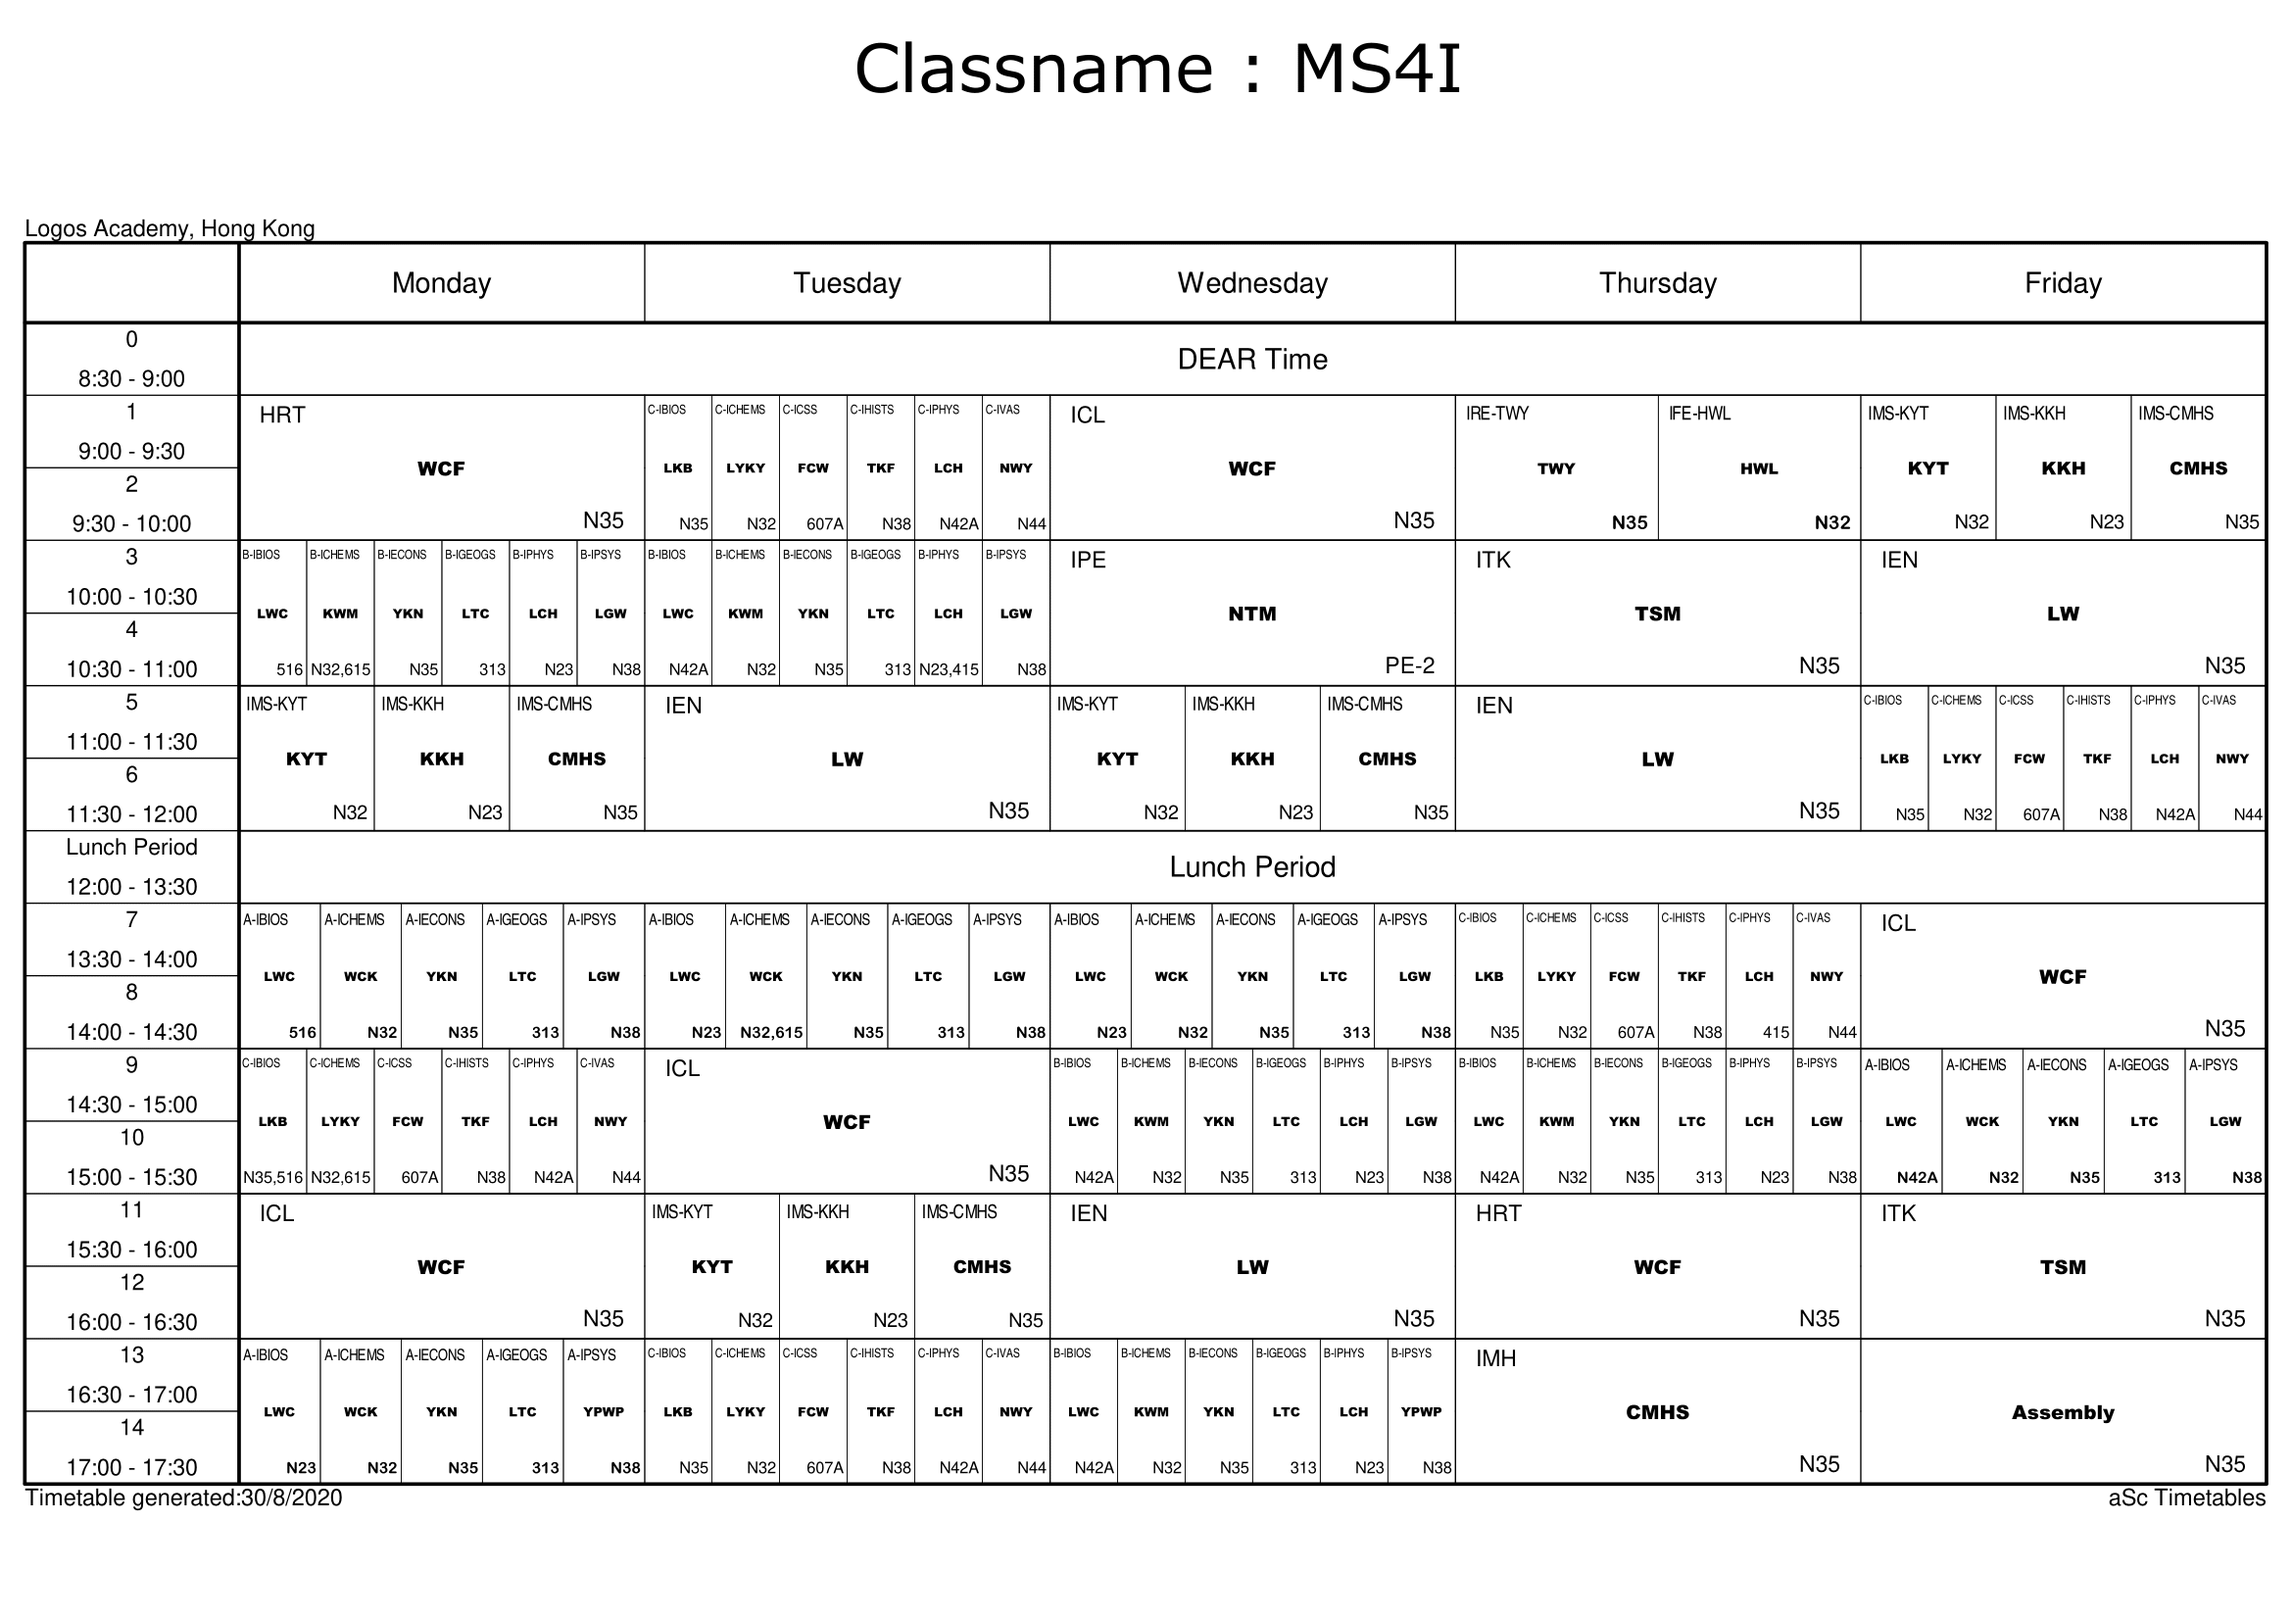
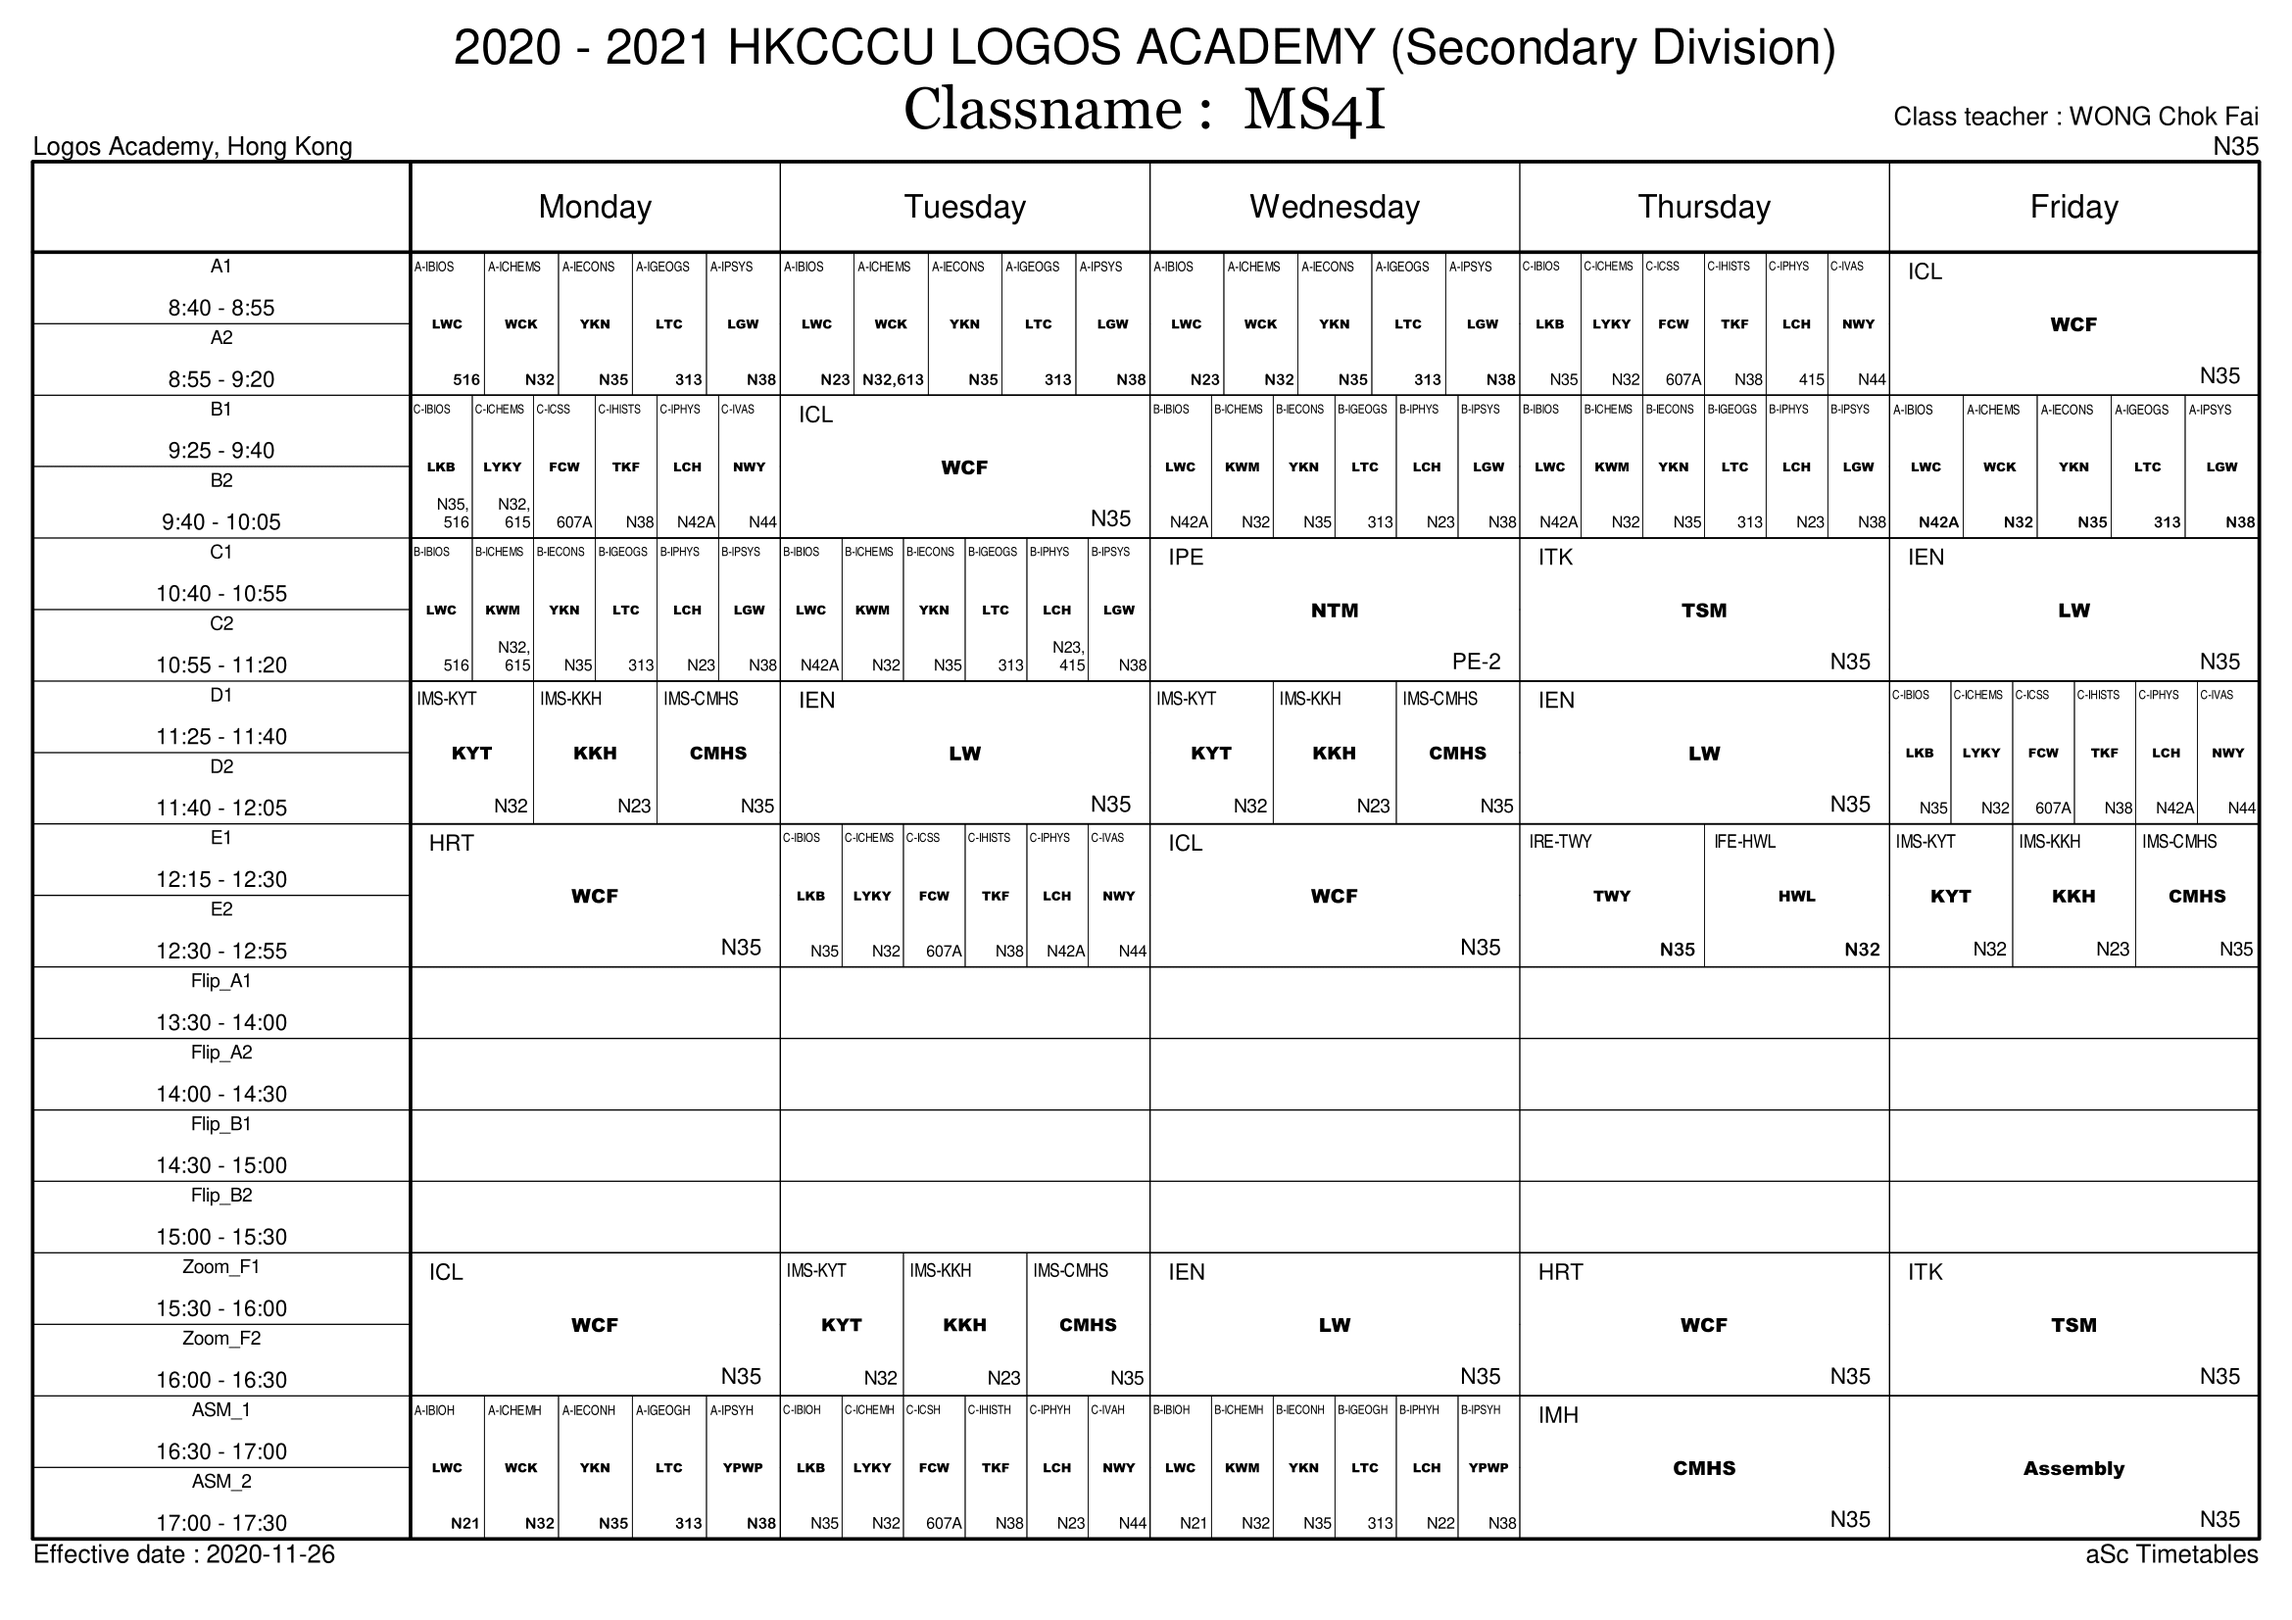
here we go again

diff --git a/timeTab.js b/timeTab.js
@@ -3,25 +3,25 @@ var earlyNotify = [6/60, 10/60, 15/60];
 var earlyStart = 30/60;
 var earlyRefresh = 20/60;
 
-var V_1 = ["HRT", "B", "Math", "A", "C", "TOK", "Amod"];
-var V_2 = ["C", "B", "Eng", "A", "Chi", "Math", "C"];
-var V_3 = ["TOK", "Eng", "Math", "A", "B", "Chi", "Bmod"];
-var V_4 = ["FleRe", "Chi", "Eng", "C", "B", "HRT", "Math"];
-var V_5 = ["Math", "PE", "C", "Chi", "A", "Eng", "Assembly"];
+var V_1 = ["A", "C", "B", "Math", "HRT", "TOK", "Amod"];
+var V_2 = ["A", "Chi", "B", "Eng", "C", "Math", "C"];
+var V_3 = ["A", "B", "Eng", "Math", "TOK", "Chi", "Bmod"];
+var V_4 = ["C", "B", "Chi", "Eng", "FleRe", "HRT", "Math"];
+var V_5 = ["Chi", "A", "PE", "C", "Math", "Eng", "Assembly"];
 
-var I_1 = ["HRT", "B", "Math", "A", "C", "Chi", "Amod"];
-var I_2 = ["C", "B", "Eng", "A", "Chi", "Math", "C"];
-var I_3 = ["Chi", "PE", "Math", "A", "B", "Eng", "Bmod"];
-var I_4 = ["FleRe", "TOK", "Eng", "C", "B", "HRT", "Math"];
-var I_5 = ["Math", "Eng", "C", "Chi", "A", "TOK", "Assembly"];
+var I_1 = ["A", "C", "B", "Math", "HRT", "Chi", "Amod"];
+var I_2 = ["A", "Chi", "B", "Eng", "C", "Math", "C"];
+var I_3 = ["A", "B", "PE", "Math", "Chi", "Eng", "Bmod"];
+var I_4 = ["C", "B", "TOK", "Eng", "FleRe", "HRT", "Math"];
+var I_5 = ["Chi", "A", "Eng", "C", "Math", "TOK", "Assembly"];
 
-var S_1 = ["HRT", "B", "Chi", "A", "C", "Eng", "Amod"];
-var S_2 = ["C", "B", "FleRe", "A", "Math", "TOK", "C"];
-var S_3 = ["PE", "Eng", "Math", "A", "B", "Chi", "Bmod"];
-var S_4 = ["Chi", "Eng", "Math", "C", "B", "HRT", "None"];
-var S_5 = ["Chi", "TOK", "C", "Eng", "A", "Math", "Assembly"];
+var S_1 = ["A", "C", "B", "Chi", "HRT", "Eng", "Amod"];
+var S_2 = ["A", "Math", "B", "FleRe", "C", "TOK", "C"];
+var S_3 = ["A", "B", "Eng", "Math", "PE", "Chi", "Bmod"];
+var S_4 = ["C", "B", "Eng", "Math", "Chi", "HRT", "None"];
+var S_5 = ["Eng", "A", "TOK", "C", "Chi", "Math", "Assembly"];
 
-var lessonStart = [8.25, 9, 10+5/60, 10+55/60, 12+5/60, 12+50/60, 15.5, 16.5, 17.5];
+var lessonStart = [8+40/60, 9+25/60, 10+40/60, 11+25/60, 12+15/60, 13+30/60, 15.5, 16.5, 17.5];
 
 var lunchTime = 5;
 

diff --git a/README.md b/README.md
@@ -1,2 +1,2 @@
-# MS4 IB Zoom Meeting Timetable BETA
-- Refactored time management: notification, lesson order may have bugs 
+# MS4 IB Zoom Meeting Timetable
+here we go again
